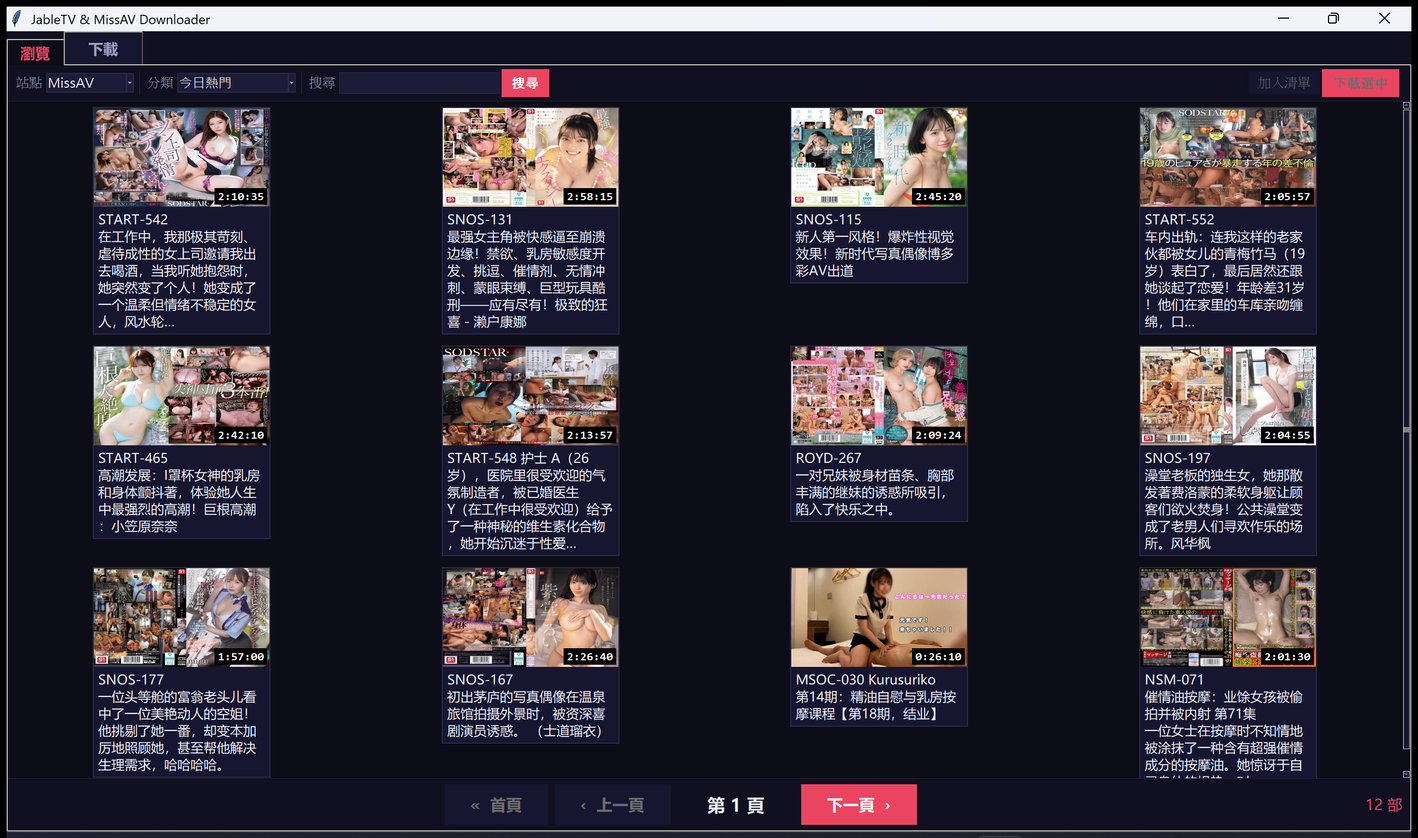
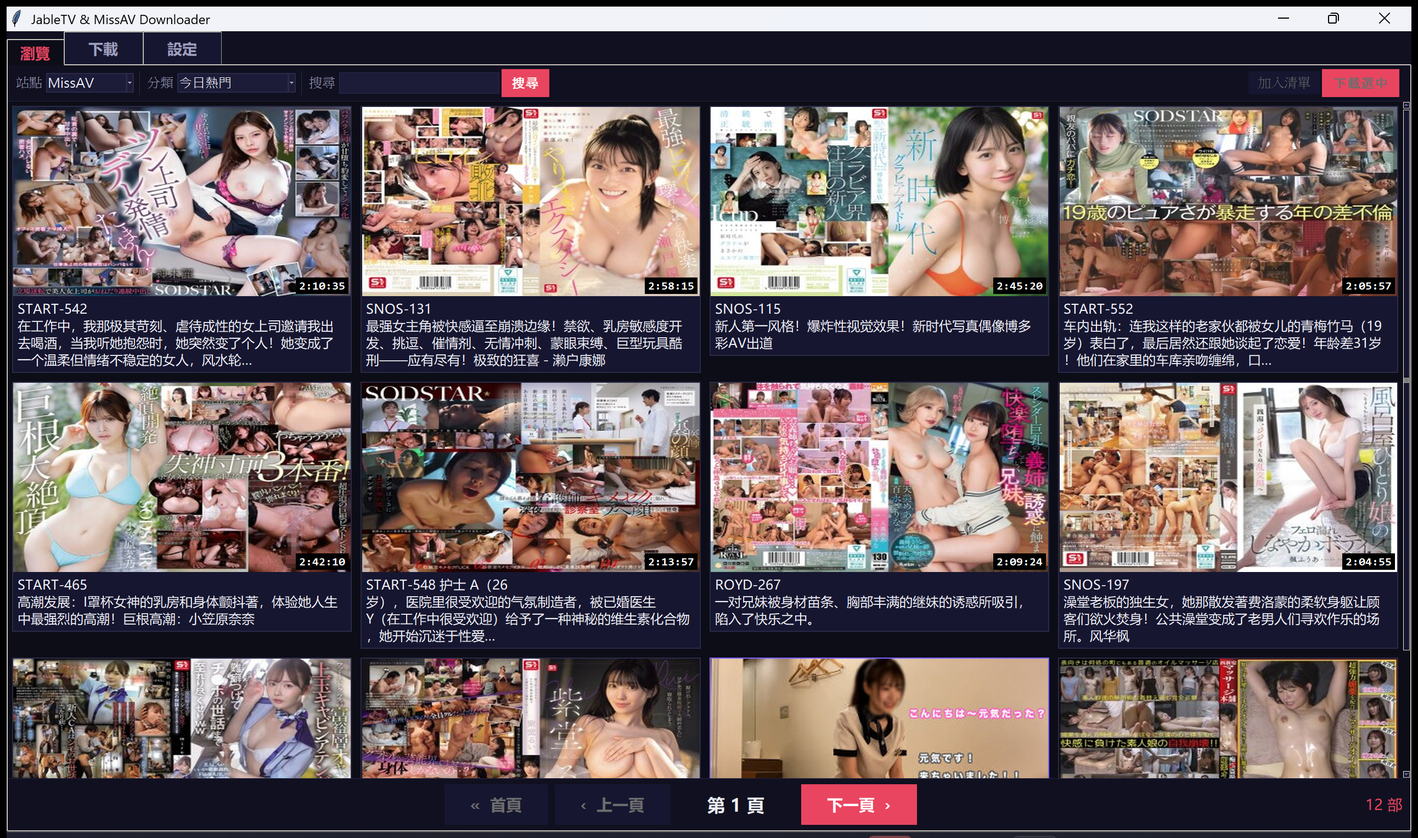
docs: update screenshots with current UI, add settings tab screenshot

diff --git a/README.md b/README.md
@@ -30,6 +30,11 @@
   <img src="./img/screenshot_download.png" width="800" alt="Download Manager" />
 </p>
 
+### 設定頁面
+<p align="center">
+  <img src="./img/screenshot_settings.png" width="800" alt="Settings" />
+</p>
+
 ---
 
 ## 功能特色

diff --git a/README.en.md b/README.en.md
@@ -30,6 +30,11 @@
   <img src="./img/screenshot_download.png" width="800" alt="Download Manager" />
 </p>
 
+### Settings
+<p align="center">
+  <img src="./img/screenshot_settings.png" width="800" alt="Settings" />
+</p>
+
 ---
 
 ## Features
